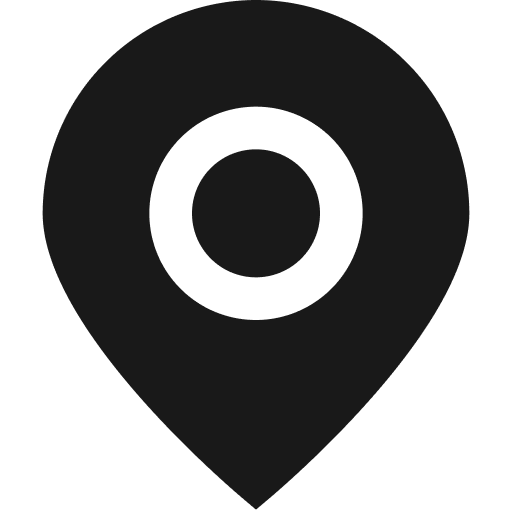
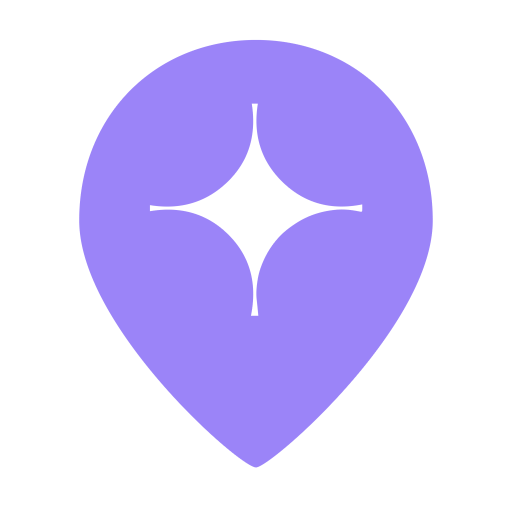
💅 design: 마커 UI 변경

diff --git a/src/components/eventMap/maps/EventMarker/EventMarker.tsx b/src/components/eventMap/maps/EventMarker/EventMarker.tsx
@@ -38,7 +38,7 @@ const EventMarker = ({
       onClick={() => {
         handlePressMapCoordinate(event.id, markerCoordinate);
       }}
-      pinColor={colors.main}
+      pinColor={colors.background}
     />
   );
 };
